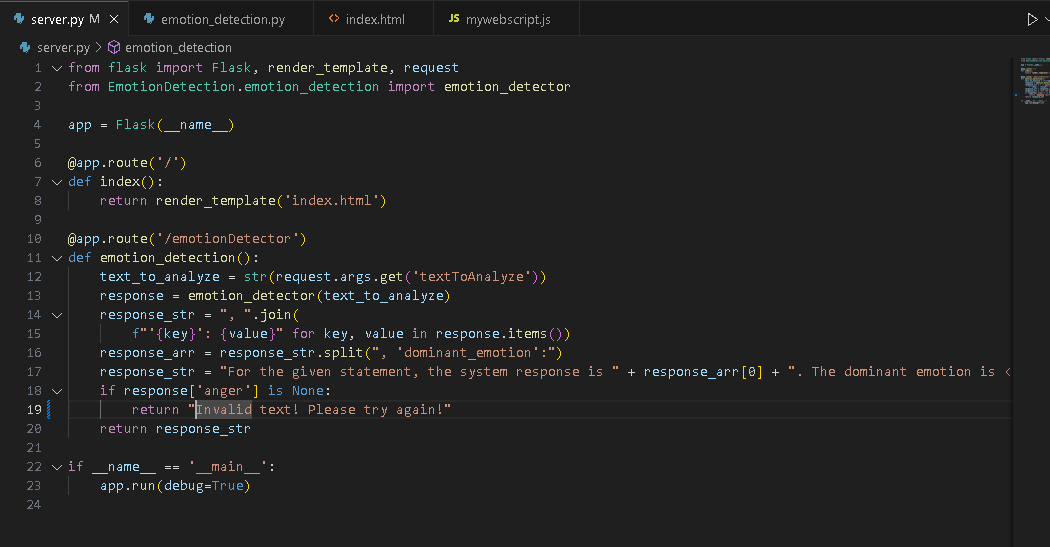
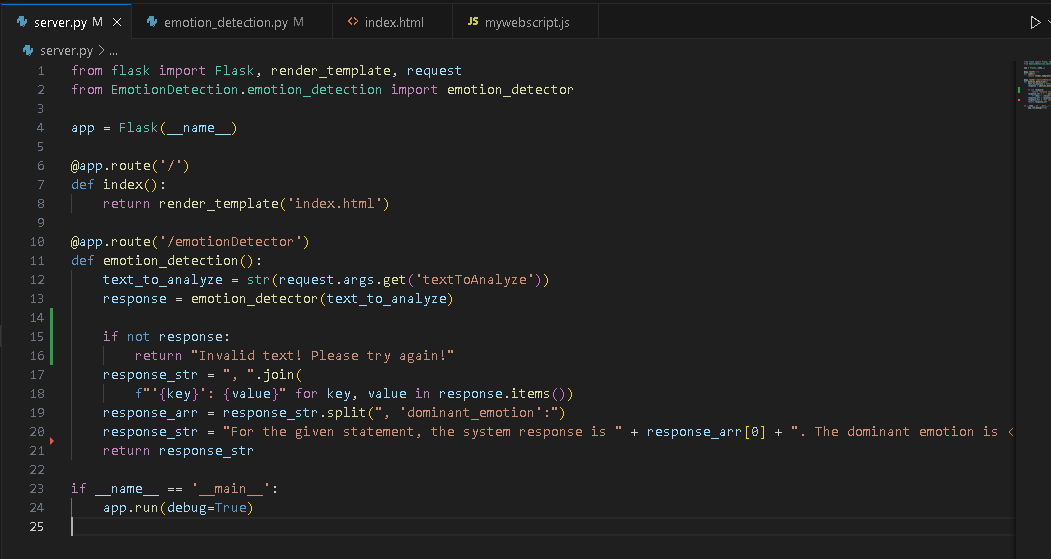
screenshot of the error message of blank input has been added. and also some modification done on the server.py and emotion_detection.py to make it work

diff --git a/EmotionDetection/emotion_detection.py b/EmotionDetection/emotion_detection.py
@@ -20,6 +20,7 @@ def emotion_detector(text_to_analyze):
     response = requests.post(url , json = payload , headers = header, timeout=10)
     
     formatted_response = json.loads(response.text)
+    output_json = {}
     
     if response.status_code == 200:
         anger = formatted_response['emotionPredictions'][0]['emotion']['anger']
@@ -41,8 +42,8 @@ def emotion_detector(text_to_analyze):
         output_json.update({'dominant_emotion':dominant_emotion_list[0]})
     elif response.status_code == 500:
         output_json = {
-            'anger': None,
-            'disgust': None,
+            'anger':None,
+            'disgust':None,
             'fear': None,
             'joy': None,
             'sadness': None,

diff --git a/server.py b/server.py
@@ -11,12 +11,13 @@ def index():
 def emotion_detection():
     text_to_analyze = str(request.args.get('textToAnalyze'))
     response = emotion_detector(text_to_analyze)
+    
+    if not response:
+        return "Invalid text! Please try again!"
     response_str = ", ".join(
         f"'{key}': {value}" for key, value in response.items())
     response_arr = response_str.split(", 'dominant_emotion':")
     response_str = "For the given statement, the system response is " + response_arr[0] + ". The dominant emotion is <b>" + response_arr[1]+"</b>."
-    if response['anger'] is None:
-        return "Invalid text! Please try again!"
     return response_str
 
 if __name__ == '__main__':
